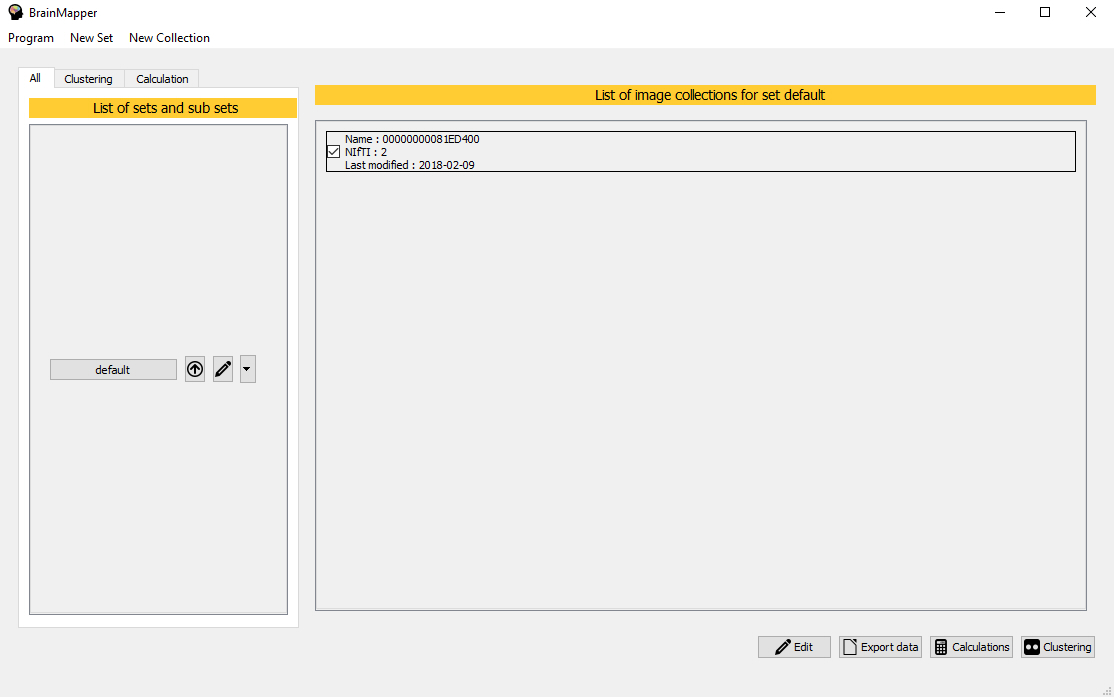
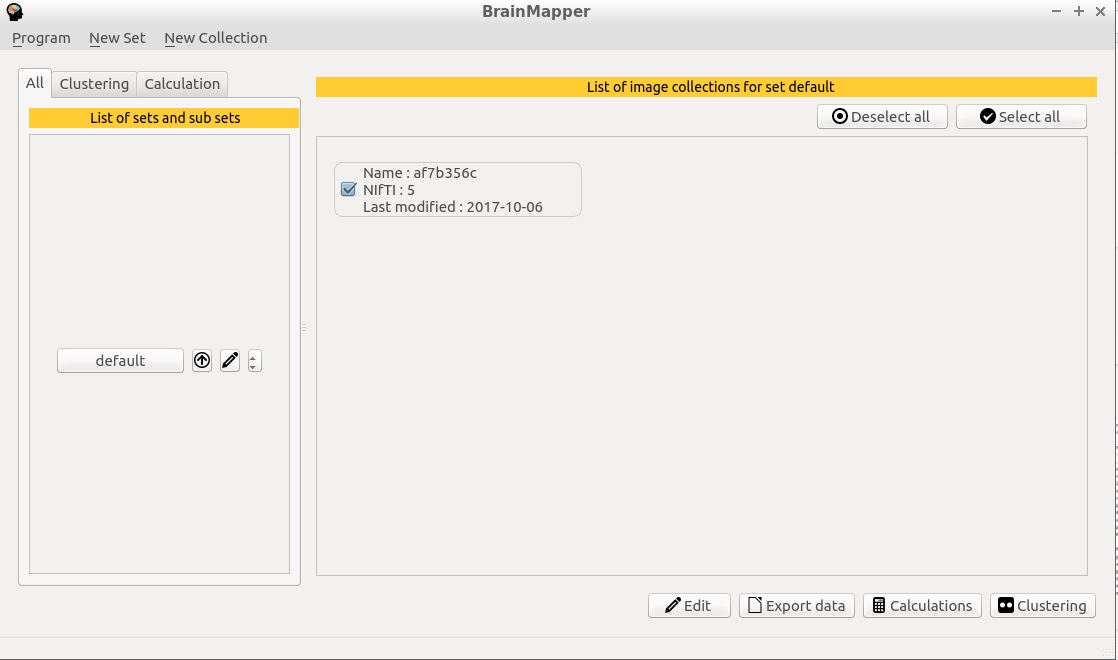
Add desc for select and deselect

diff --git a/NIfTI_handling.html b/NIfTI_handling.html
@@ -121,7 +121,7 @@
         	</p>
         	<h3 id="select">3.2. Select collections</h3>
         	<p>
-        		To work on your data using BrainMapper, you have to select the collections you want to working on. To do so, just click on the collection you want (the selected collections are ticked).
+        		To work on your data using BrainMapper, you have to select the collections you want to work on. To do so, just click on the collection you want (the selected collections are ticked).
         	</p>
         	<p>
         		Note that you can select collections even if they are not in the same set!
@@ -129,7 +129,12 @@
         	<p>
         		<img src="imgs/selected.jpg" style="width:40%">
         	</p>
-
+			<p>
+				You can use the buttons "Select all" and "Deselect all" to select or deselect all the image collection you have in your current set. That will be usefull when you have a lot of image collections you (don't) want to use.
+			</p>
+			<p>
+				<img src="imgs/de-select.jpg" style="width:20%">
+			</p>
         	<h2 id="edit">4. Edit Collections</h2>
         	<p>
         		Once you added a collection, using NIfTI files or Excel file, you can edit them by using the menu at the bottom. That will show a new page where you will see the list of your selected Collections on the right.
